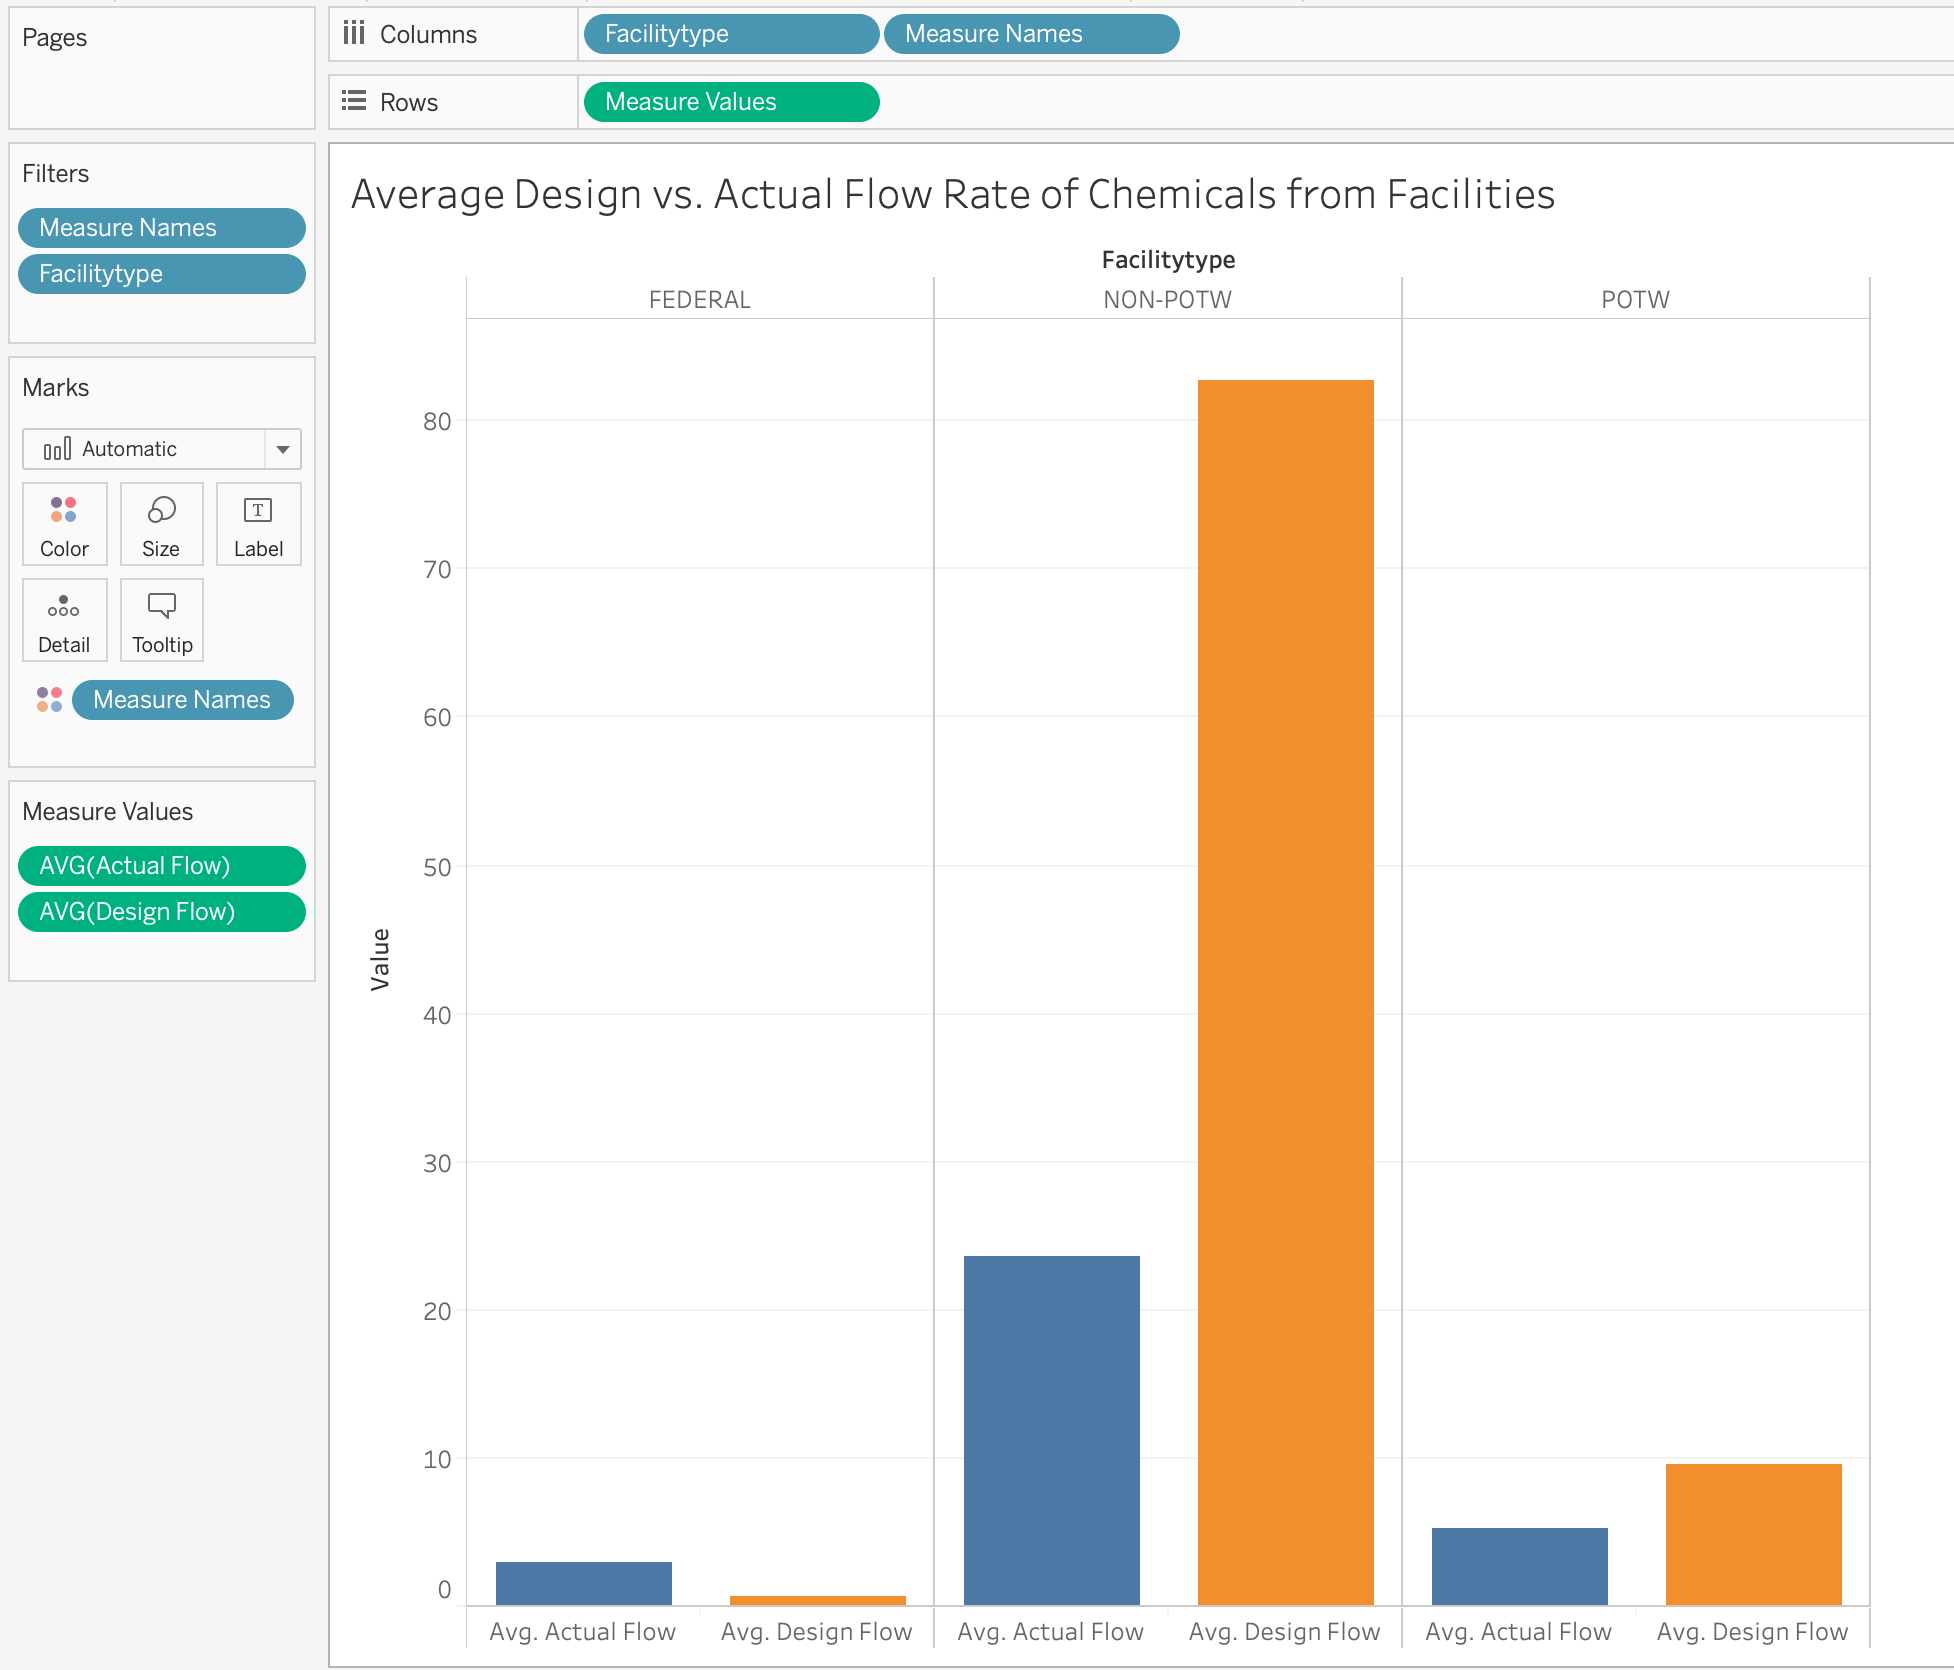
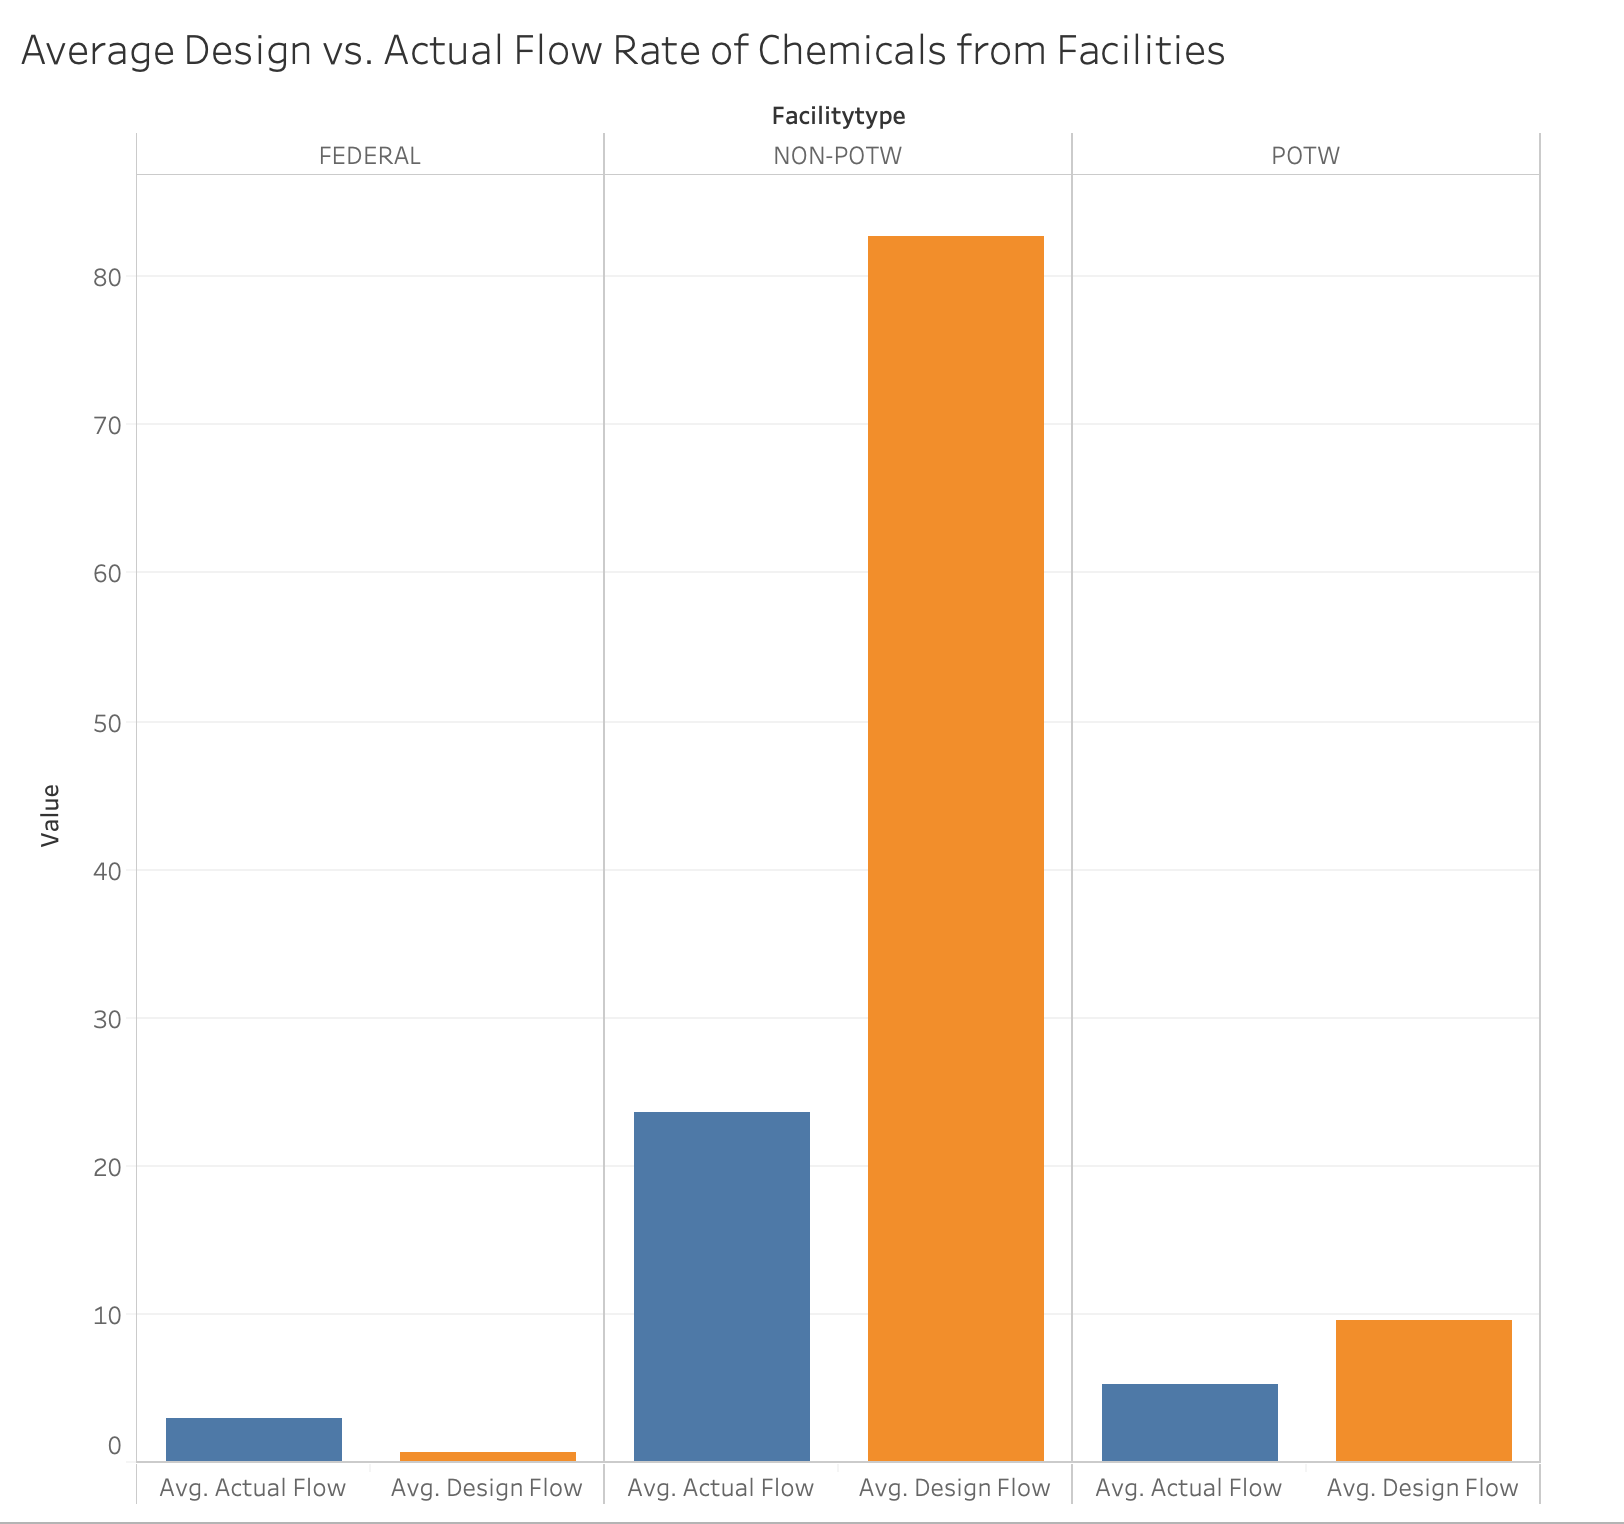
Add cropped visualizatoins to ReadMe

diff --git a/README.md b/README.md
@@ -119,3 +119,7 @@ The fact table has a number of attributes that are very useful for analysis:
 ![ChemImpairedLakes](./vis/Lakes_Impaired_Prct.png)
 
 ![ChemImpairedLakeswithRestorePlan](./vis/Lakes_Impaired_Restoration_Prct.png)
+
+![TempSeasonLength](./vis/Temp_Season_Length.png)
+
+![DesignvsActual](./vis/Design_vs_Actual.png)
